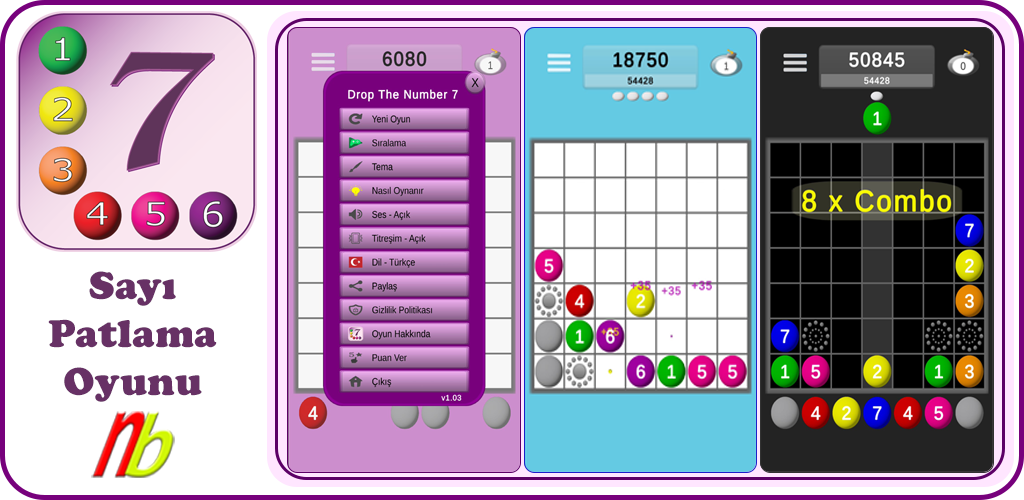
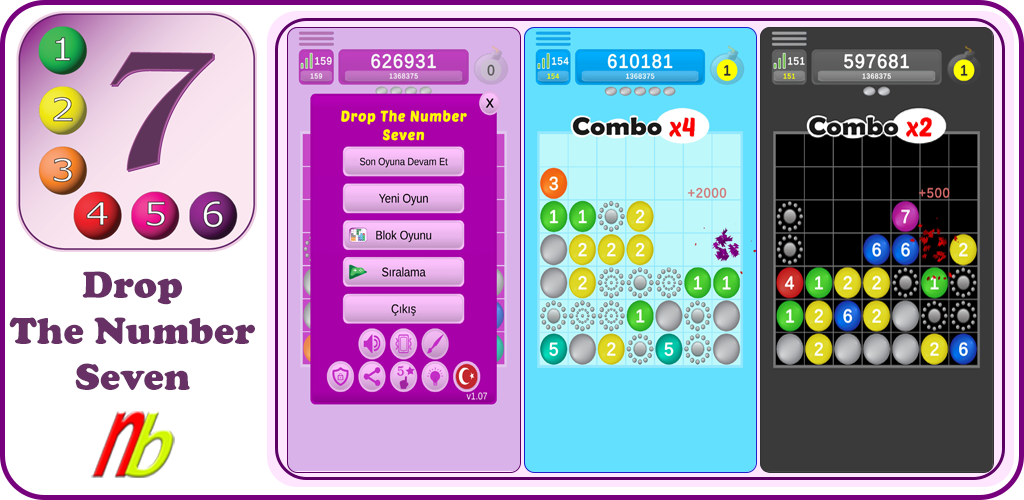
new update
new update

diff --git a/NBdropthenumber/index.html b/NBdropthenumber/index.html
@@ -40,40 +40,31 @@ drop pop+, drop pop, drop puzzle 3d, drop stack ball, number match, number merge
 				</tr>
 				<tr>
 					<td align="center">
-			&nbsp;</td>
+			<img border="0" src="../NBBlock/images/00_Eng.jpg" width="250" height="416"></td>
 					<td align="center">
-			&nbsp;</td>
+			<img border="0" src="../NBBlock/images/02.jpg" width="250" height="416"></td>
 					<td align="center">
-			&nbsp;</td>
+			<img border="0" src="../NBBlock/images/03.jpg" width="250" height="416"></td>
 					<td align="center">
-			&nbsp;</td>
+			<img border="0" src="../NBBlock/images/04.jpg" width="250" height="416"></td>
 				</tr>
 				<tr>
 					<td align="center">
-			<img border="0" src="images/01_Eng.png" width="250" height="444"></td>
+			<img border="0" src="../NBBlock/images/05_Eng.jpg" width="250" height="416"></td>
 					<td align="center">
-			<img border="0" src="images/02_Eng.png" width="250" height="444"></td>
+			<img border="0" src="../NBBlock/images/06.jpg" width="250" height="416"></td>
 					<td align="center">
-			<img border="0" src="images/03.png" width="250" height="444"></td>
+			<img border="0" src="../NBBlock/images/07.jpg" width="250" height="416"></td>
 					<td align="center">
-			<img border="0" src="images/04.png" width="250" height="444"></td>
-				</tr>
-				<tr>
-					<td align="center">
-			&nbsp;</td>
-					<td align="center">
-			<img border="0" src="images/05.png" width="250" height="444"></td>
-					<td align="center">
-			<img border="0" src="images/06.png" width="250" height="444"></td>
-					<td align="center">
-			&nbsp;</td>
+			<img border="0" src="../NBBlock/images/08.jpg" width="250" height="416"></td>
 				</tr>
 				<tr>
 					<td align="center" colspan="4">
 			<table border="1" width="98%" style="border-width: 0px">
 				<tr>
-					<td style="border-style: none; border-width: medium">Simple 
-					fun number and ball popping game<p align="justify">Drop The 
+					<td style="border-style: none; border-width: medium">&nbsp;<p>Simple 
+					fun number and ball popping game</p>
+					<p align="justify">Drop The 
 					Number Seven is a ball popping game based on merging balls 
 					and numbers.<br>
 					<br>
